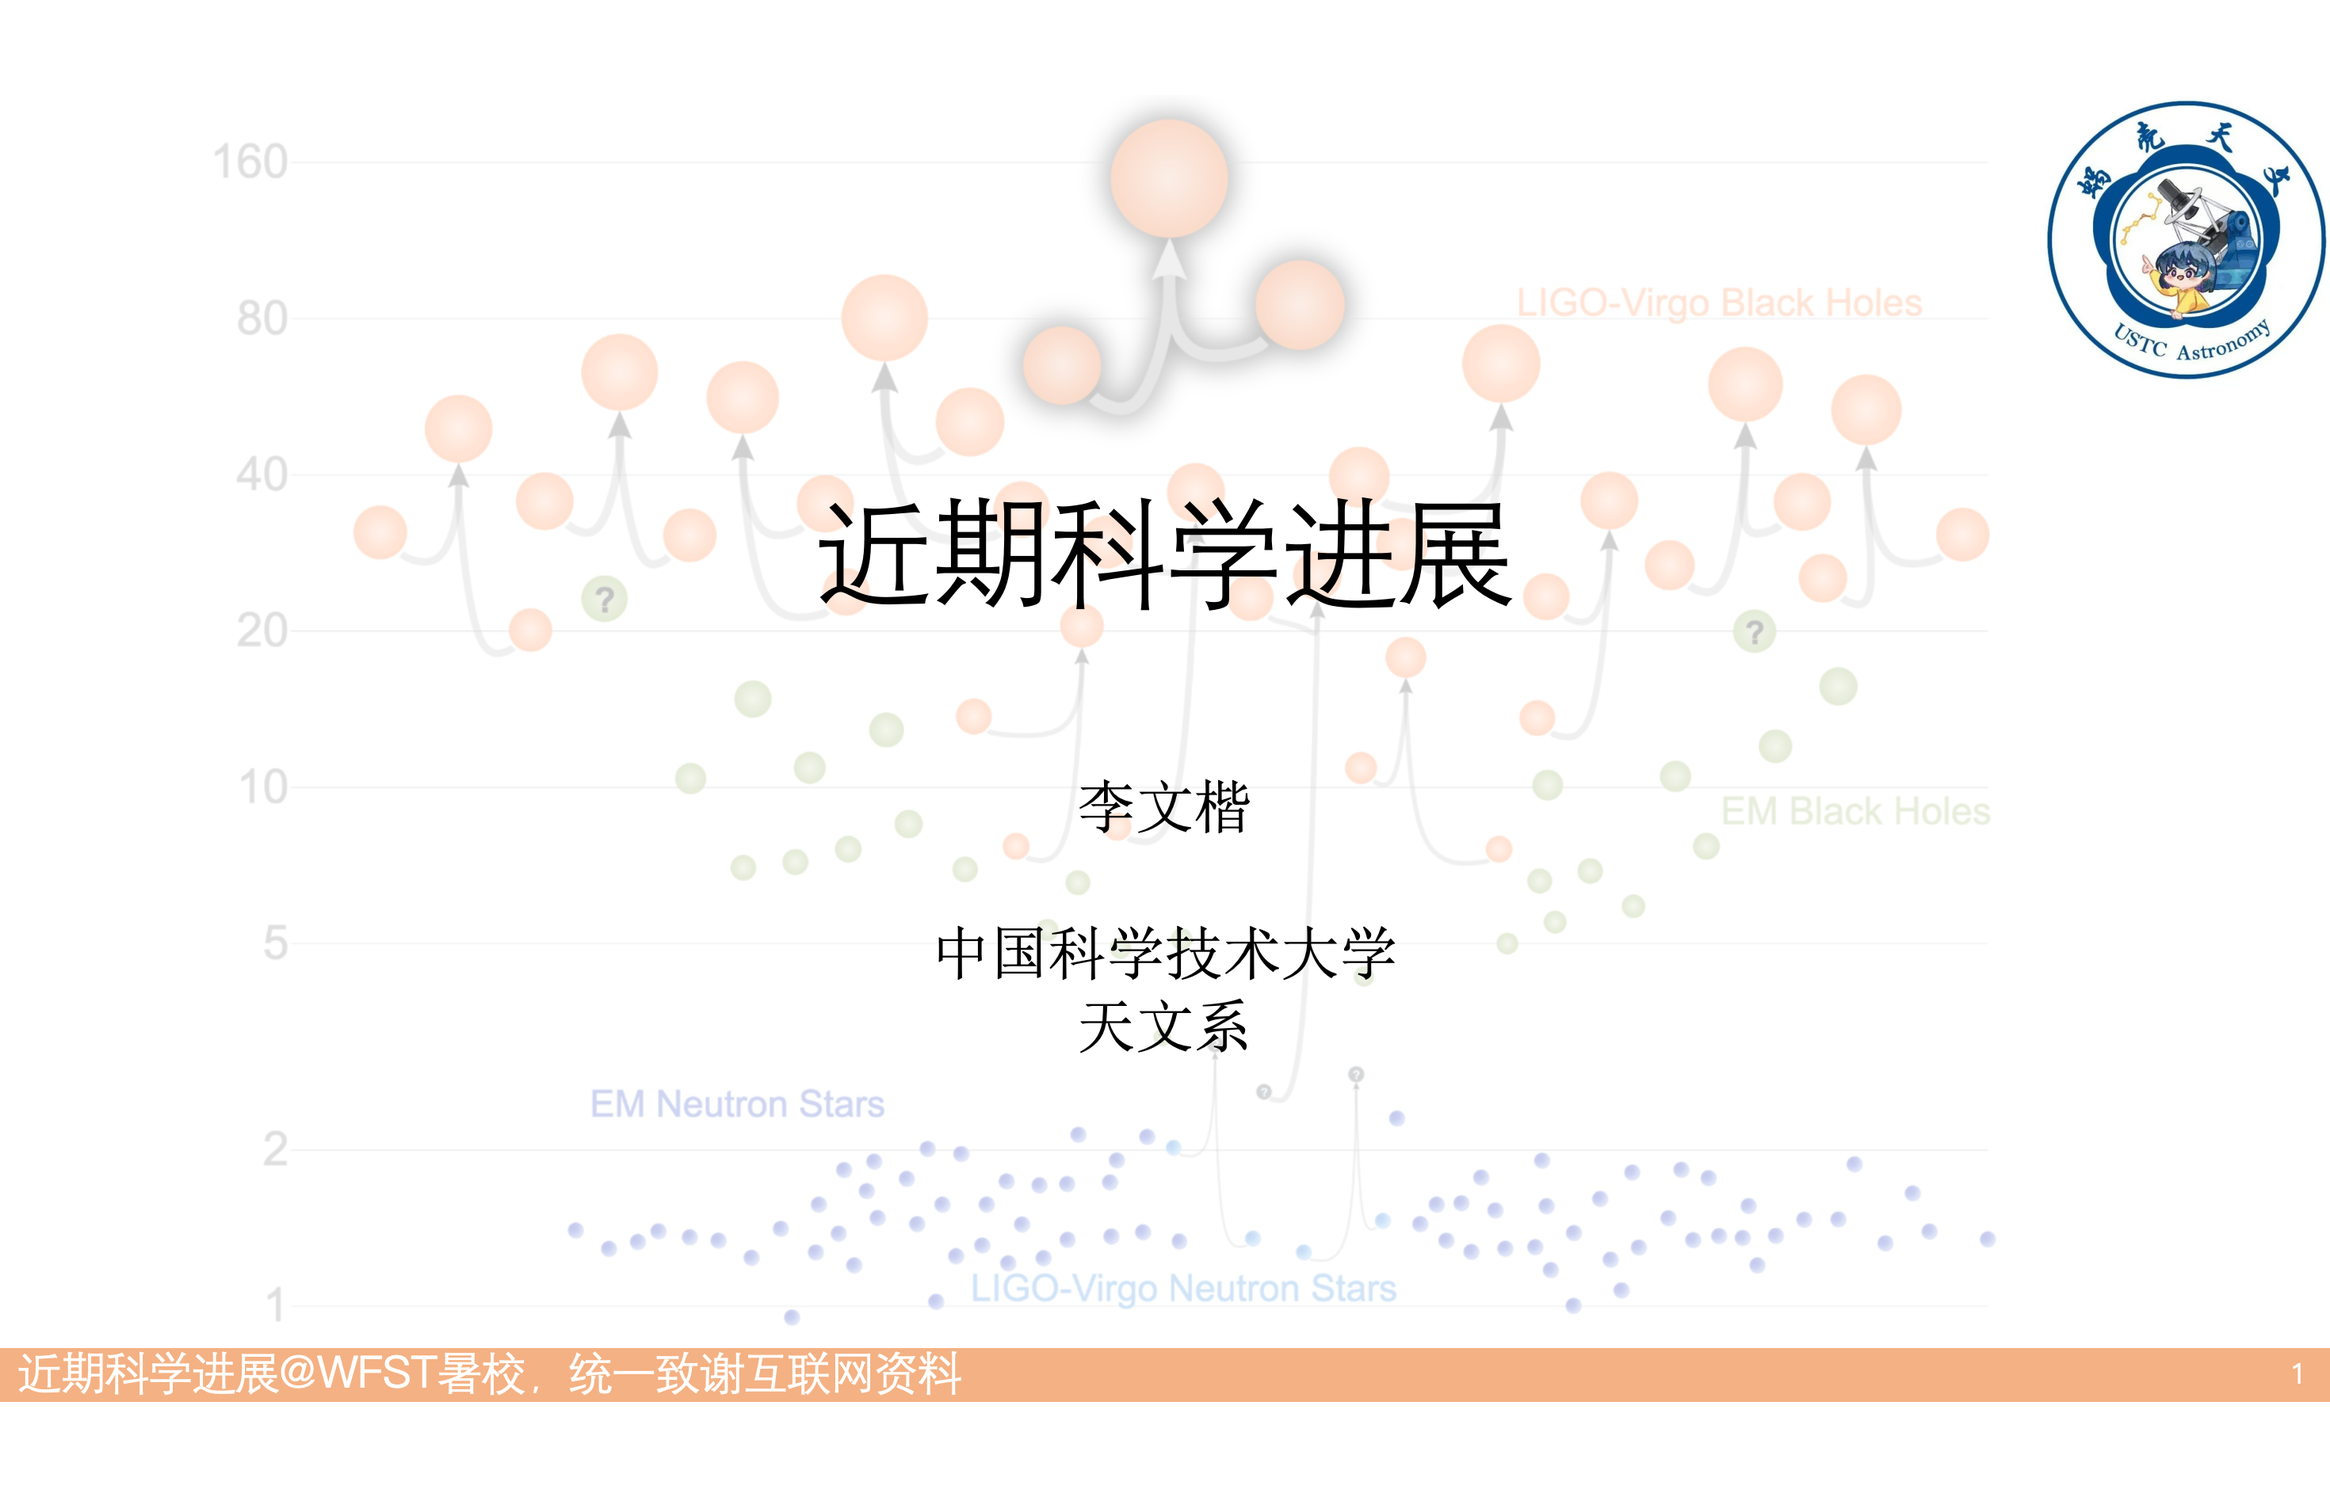
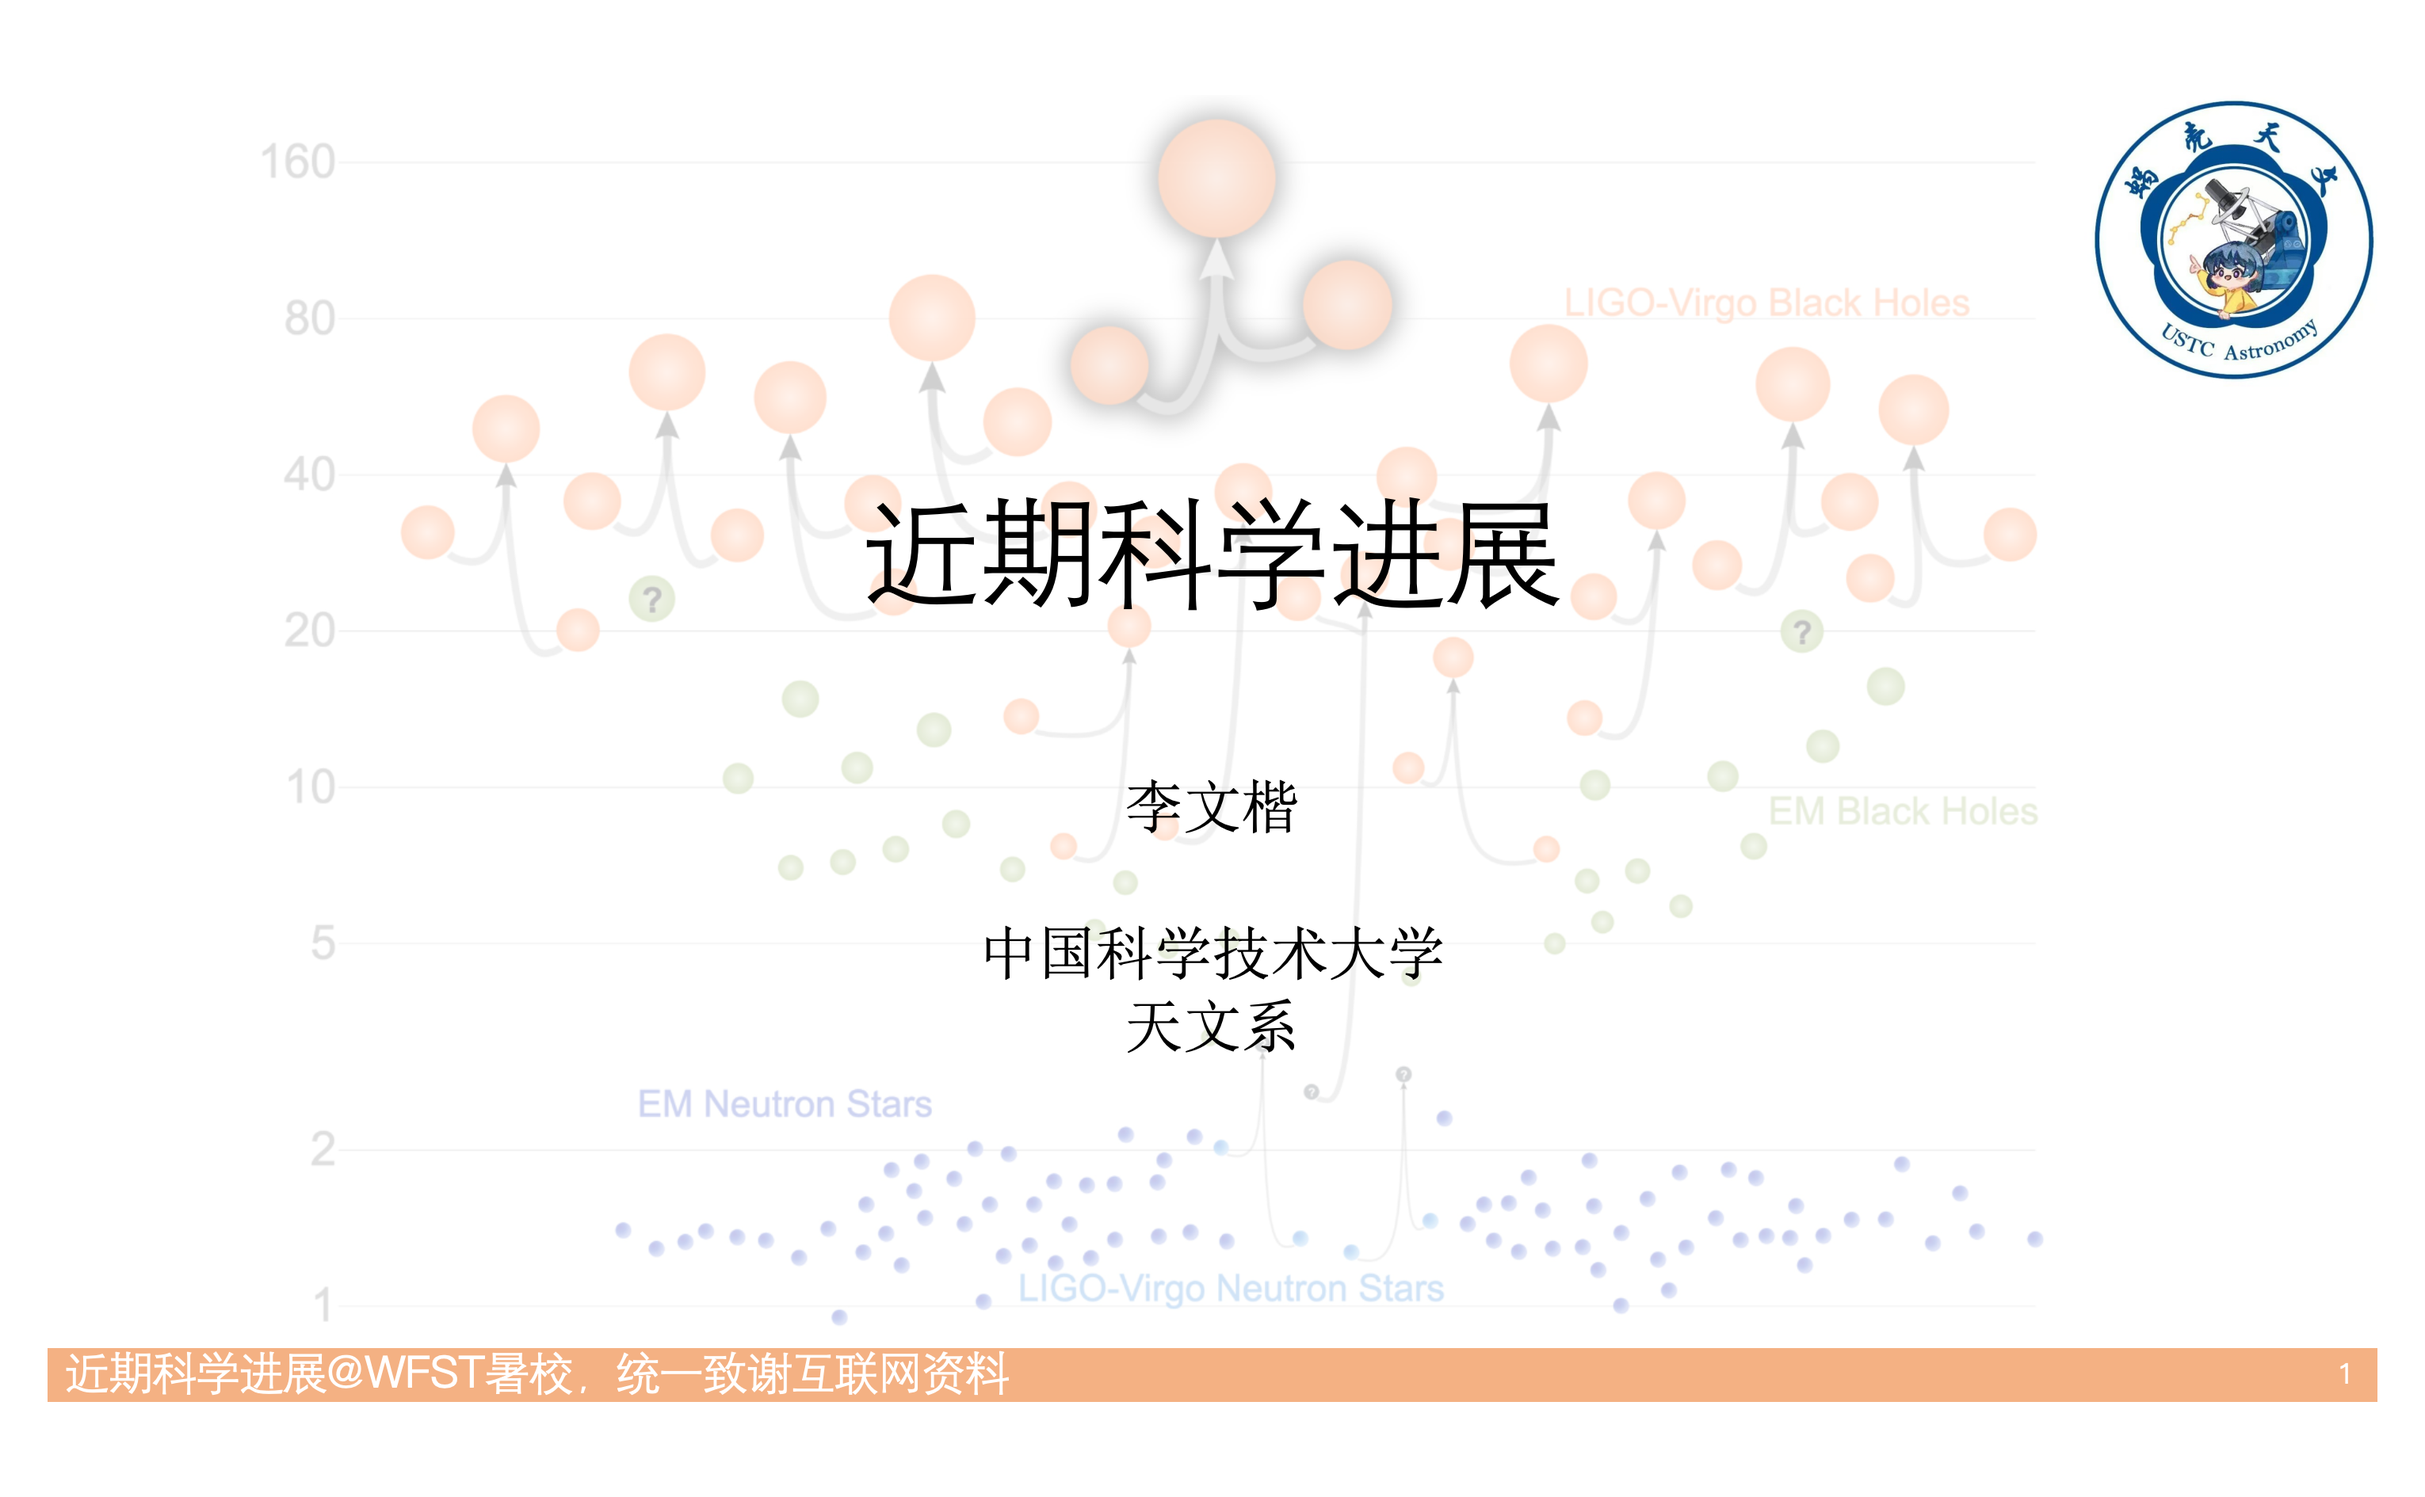
Refine Recent Scientific Progress project card

diff --git a/_projects/WFST_Summer_School.md b/_projects/WFST_Summer_School.md
@@ -2,7 +2,7 @@
 layout: page
 title: Recent Scientific Progress
 short_title: "Recent Scientific Progress" # ← 新增：用于Research卡片显示
-summary: Invited Talk @ WFST Summer Shool
+summary: Talk @ 2024 WFST Summer Shool
 description:
 img: /assets/img/projects/Recent_Scientific_Progress.png
 importance: 3
